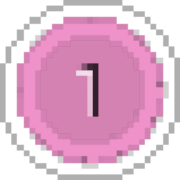
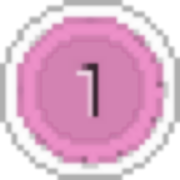
pwa

diff --git a/index.service.worker.js b/index.service.worker.js
@@ -1,0 +1,166 @@
+// This service worker is required to expose an exported Godot project as a
+// Progressive Web App. It provides an offline fallback page telling the user
+// that they need an Internet connection to run the project if desired.
+// Incrementing CACHE_VERSION will kick off the install event and force
+// previously cached resources to be updated from the network.
+/** @type {string} */
+const CACHE_VERSION = '1781739175|549466140';
+/** @type {string} */
+const CACHE_PREFIX = 'Gumdrop-sw-cache-';
+const CACHE_NAME = CACHE_PREFIX + CACHE_VERSION;
+/** @type {string} */
+const OFFLINE_URL = 'index.offline.html';
+/** @type {boolean} */
+const ENSURE_CROSSORIGIN_ISOLATION_HEADERS = true;
+// Files that will be cached on load.
+/** @type {string[]} */
+const CACHED_FILES = ["index.html","index.js","index.offline.html","index.icon.png","index.apple-touch-icon.png","index.audio.worklet.js","index.audio.position.worklet.js"];
+// Files that we might not want the user to preload, and will only be cached on first load.
+/** @type {string[]} */
+const CACHEABLE_FILES = ["index.wasm","index.pck"];
+const FULL_CACHE = CACHED_FILES.concat(CACHEABLE_FILES);
+
+self.addEventListener('install', (event) => {
+	event.waitUntil(caches.open(CACHE_NAME).then((cache) => cache.addAll(CACHED_FILES)));
+});
+
+self.addEventListener('activate', (event) => {
+	event.waitUntil(caches.keys().then(
+		function (keys) {
+			// Remove old caches.
+			return Promise.all(keys.filter((key) => key.startsWith(CACHE_PREFIX) && key !== CACHE_NAME).map((key) => caches.delete(key)));
+		}
+	).then(function () {
+		// Enable navigation preload if available.
+		return ('navigationPreload' in self.registration) ? self.registration.navigationPreload.enable() : Promise.resolve();
+	}));
+});
+
+/**
+ * Ensures that the response has the correct COEP/COOP headers
+ * @param {Response} response
+ * @returns {Response}
+ */
+function ensureCrossOriginIsolationHeaders(response) {
+	if (response.headers.get('Cross-Origin-Embedder-Policy') === 'require-corp'
+		&& response.headers.get('Cross-Origin-Opener-Policy') === 'same-origin') {
+		return response;
+	}
+
+	const crossOriginIsolatedHeaders = new Headers(response.headers);
+	crossOriginIsolatedHeaders.set('Cross-Origin-Embedder-Policy', 'require-corp');
+	crossOriginIsolatedHeaders.set('Cross-Origin-Opener-Policy', 'same-origin');
+	const newResponse = new Response(response.body, {
+		status: response.status,
+		statusText: response.statusText,
+		headers: crossOriginIsolatedHeaders,
+	});
+
+	return newResponse;
+}
+
+/**
+ * Calls fetch and cache the result if it is cacheable
+ * @param {FetchEvent} event
+ * @param {Cache} cache
+ * @param {boolean} isCacheable
+ * @returns {Response}
+ */
+async function fetchAndCache(event, cache, isCacheable) {
+	// Use the preloaded response, if it's there
+	/** @type { Response } */
+	let response = await event.preloadResponse;
+	if (response == null) {
+		// Or, go over network.
+		response = await self.fetch(event.request);
+	}
+
+	if (ENSURE_CROSSORIGIN_ISOLATION_HEADERS) {
+		response = ensureCrossOriginIsolationHeaders(response);
+	}
+
+	if (isCacheable) {
+		// And update the cache
+		cache.put(event.request, response.clone());
+	}
+
+	return response;
+}
+
+self.addEventListener(
+	'fetch',
+	/**
+	 * Triggered on fetch
+	 * @param {FetchEvent} event
+	 */
+	(event) => {
+		const isNavigate = event.request.mode === 'navigate';
+		const url = event.request.url || '';
+		const referrer = event.request.referrer || '';
+		const base = referrer.slice(0, referrer.lastIndexOf('/') + 1);
+		const local = url.startsWith(base) ? url.replace(base, '') : '';
+		const isCacheable = FULL_CACHE.some((v) => v === local) || (base === referrer && base.endsWith(CACHED_FILES[0]));
+		if (isNavigate || isCacheable) {
+			event.respondWith((async () => {
+				// Try to use cache first
+				const cache = await caches.open(CACHE_NAME);
+				if (isNavigate) {
+					// Check if we have full cache during HTML page request.
+					/** @type {Response[]} */
+					const fullCache = await Promise.all(FULL_CACHE.map((name) => cache.match(name)));
+					const missing = fullCache.some((v) => v === undefined);
+					if (missing) {
+						try {
+							// Try network if some cached file is missing (so we can display offline page in case).
+							const response = await fetchAndCache(event, cache, isCacheable);
+							return response;
+						} catch (e) {
+							// And return the hopefully always cached offline page in case of network failure.
+							console.error('Network error: ', e); // eslint-disable-line no-console
+							return caches.match(OFFLINE_URL);
+						}
+					}
+				}
+				let cached = await cache.match(event.request);
+				if (cached != null) {
+					if (ENSURE_CROSSORIGIN_ISOLATION_HEADERS) {
+						cached = ensureCrossOriginIsolationHeaders(cached);
+					}
+					return cached;
+				}
+				// Try network if don't have it in cache.
+				const response = await fetchAndCache(event, cache, isCacheable);
+				return response;
+			})());
+		} else if (ENSURE_CROSSORIGIN_ISOLATION_HEADERS) {
+			event.respondWith((async () => {
+				let response = await fetch(event.request);
+				response = ensureCrossOriginIsolationHeaders(response);
+				return response;
+			})());
+		}
+	}
+);
+
+self.addEventListener('message', (event) => {
+	// No cross origin
+	if (event.origin !== self.origin) {
+		return;
+	}
+	const id = event.source.id || '';
+	const msg = event.data || '';
+	// Ensure it's one of our clients.
+	self.clients.get(id).then(function (client) {
+		if (!client) {
+			return; // Not a valid client.
+		}
+		if (msg === 'claim') {
+			self.skipWaiting().then(() => self.clients.claim());
+		} else if (msg === 'clear') {
+			caches.delete(CACHE_NAME);
+		} else if (msg === 'update') {
+			self.skipWaiting().then(() => self.clients.claim()).then(() => self.clients.matchAll()).then((all) => all.forEach((c) => c.navigate(c.url)));
+		}
+	});
+});
+

diff --git a/index.html b/index.html
@@ -92,6 +92,7 @@ body {
 		</style>
 		<link id="-gd-engine-icon" rel="icon" type="image/png" href="index.icon.png" />
 <link rel="apple-touch-icon" href="index.apple-touch-icon.png"/>
+<link rel="manifest" href="index.manifest.json">
 <script src="https://cdnjs.cloudflare.com/ajax/libs/jszip/3.10.1/jszip.min.js"></script>
 <script>
 function exportToZip(data) {
@@ -139,7 +140,7 @@ function exportToZip(data) {
 
 		<script src="index.js"></script>
 		<script>
-const GODOT_CONFIG = {"args":[],"canvasResizePolicy":1,"emscriptenPoolSize":8,"ensureCrossOriginIsolationHeaders":true,"executable":"index","experimentalVK":false,"fileSizes":{"index.pck":11079404,"index.wasm":37700666},"focusCanvas":true,"gdextensionLibs":[],"godotPoolSize":4};
+const GODOT_CONFIG = {"args":[],"canvasResizePolicy":2,"emscriptenPoolSize":8,"ensureCrossOriginIsolationHeaders":true,"executable":"index","experimentalVK":false,"fileSizes":{"index.pck":11079596,"index.wasm":37700666},"focusCanvas":true,"gdextensionLibs":[],"godotPoolSize":4,"serviceWorker":"index.service.worker.js"};
 const GODOT_THREADS_ENABLED = false;
 const engine = new Engine(GODOT_CONFIG);
 

diff --git a/index.offline.html b/index.offline.html
@@ -1,0 +1,41 @@
+<!DOCTYPE html>
+<html lang="en">
+	<head>
+		<meta charset="utf-8">
+		<meta http-equiv="X-UA-Compatible" content="IE=edge">
+		<meta name="viewport" content="width=device-width, initial-scale=1">
+		<title>You are offline</title>
+		<style>
+html {
+	background-color: #000000;
+	color: #ffffff;
+}
+
+body {
+	font-family: system-ui, -apple-system, "Segoe UI", Roboto, "Helvetica Neue", Arial, "Noto Sans", sans-serif, "Apple Color Emoji", "Segoe UI Emoji", "Segoe UI Symbol", "Noto Color Emoji";
+	margin: 2rem;
+}
+
+p {
+	margin-block: 1rem;
+}
+
+button {
+	display: block;
+	padding: 1rem 2rem;
+	margin: 3rem auto 0;
+}
+		</style>
+	</head>
+	<body>
+		<h1>You are offline</h1>
+		<p>This application requires an Internet connection to run for the first time.</p>
+		<p>Press the button below to try reloading:</p>
+		<button type="button">Reload</button>
+		<script>
+document.querySelector('button').addEventListener('click', () => {
+	window.location.reload();
+});
+		</script>
+	</body>
+</html>
